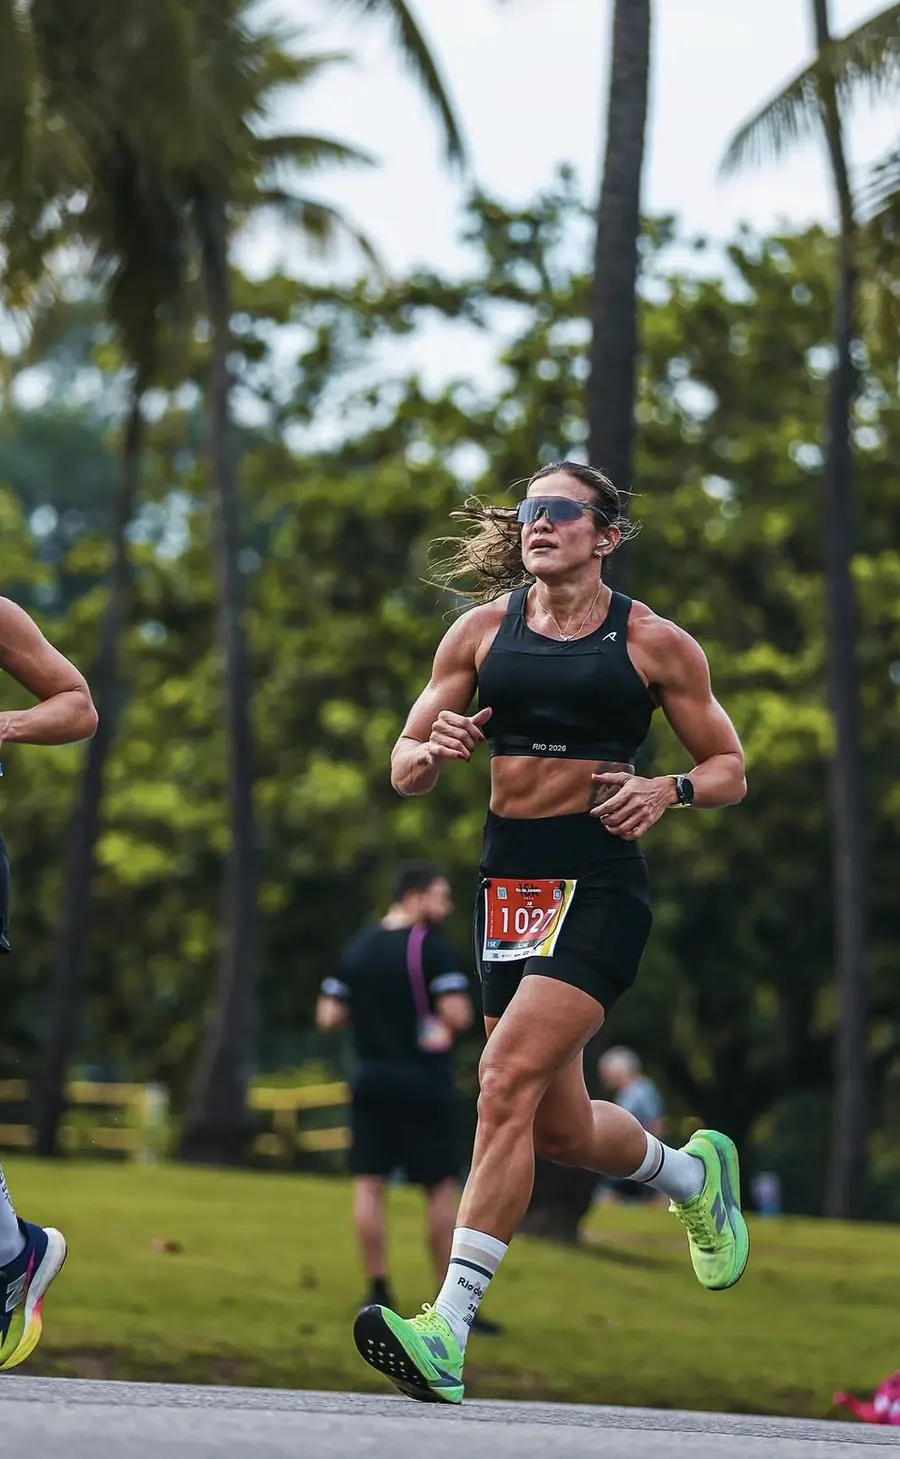
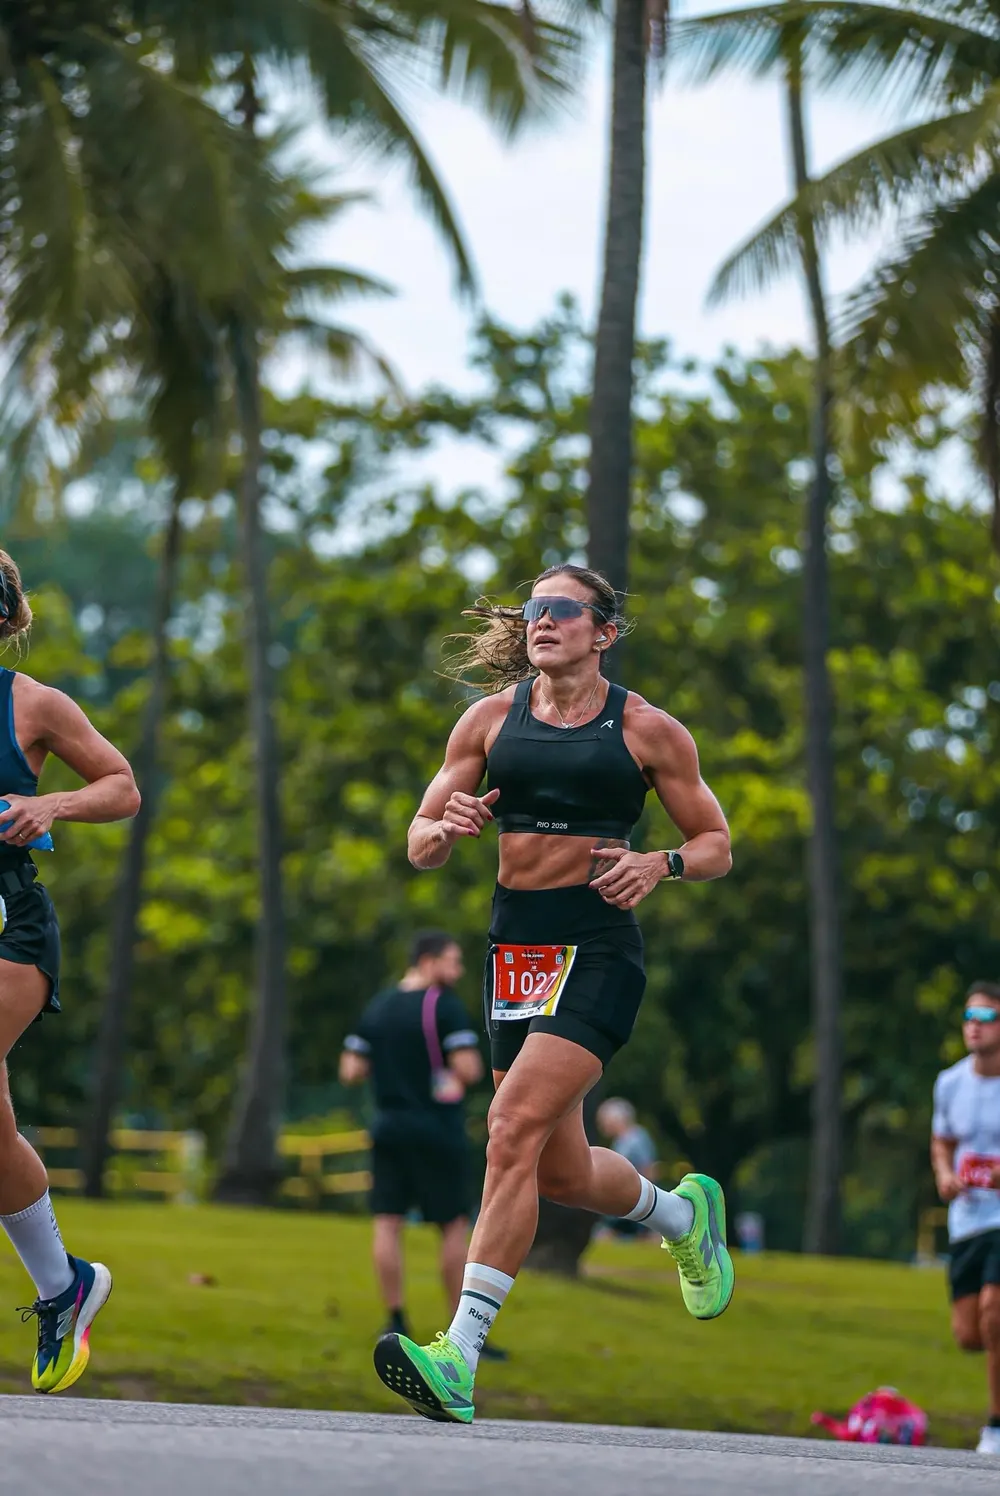
Resultado do Desafio da Ponte, fotos novas em alta qualidade e aviso de preços só na aba Tênis
Claude-Session: https://claude.ai/code/session_01WKUqZBMu9szte5bUcUWzQ6

diff --git a/index.html b/index.html
@@ -315,17 +315,17 @@ section h2{font:800 22px/1 var(--display);margin:8px 0 10px}
 .photo-card>picture img{object-fit:cover}
 .photo-card::after{content:"";position:absolute;inset:0;z-index:-1;background:linear-gradient(180deg,rgba(29,18,32,.05) 20%,rgba(29,18,32,.55) 55%,rgba(29,18,32,.9) 100%)}
 .cta.photo-card{min-height:340px;justify-content:flex-end;padding:24px 18px}
-.cta.photo-card>picture img{object-position:50% 18%}
+.cta.photo-card>picture img{object-position:50% 22%}
 .cta.photo-card p{color:#fff;max-width:34ch}
 .cta.photo-card .follow{background:#fff;color:#1D1220}
 .tr-soon.photo-card{min-height:600px;justify-content:flex-end}
 .tr-soon.photo-card::after{background:linear-gradient(180deg,rgba(29,18,32,0) 25%,rgba(29,18,32,.7) 55%,rgba(29,18,32,.94) 100%)}
-.tr-soon.photo-card>picture img{object-position:50% 10%}
+.tr-soon.photo-card>picture img{object-position:50% 18%}
 .tr-soon.photo-card .tr-p{color:#fff;opacity:.92}
 .tr-soon.photo-card .tr-h{color:#fff}
 .tr-soon.photo-card .tr-badge{background:#fff;color:#1D1220}
 .tr-soon.photo-card .follow{background:#fff;color:#1D1220}
-@media (min-width:700px){.cta.photo-card{min-height:420px}.cta.photo-card>picture img{object-position:50% 6%}}
+@media (min-width:700px){.cta.photo-card{min-height:420px}.cta.photo-card>picture img{object-position:50% 20%}}
 
 /* Resultados da Aline */
 .ar{background:var(--surface);border:1px solid var(--line);border-radius:22px;overflow:hidden;display:flex;flex-direction:column}
@@ -454,7 +454,7 @@ section h2{font:800 22px/1 var(--display);margin:8px 0 10px}
 
   <div class="panel" id="p-treino" role="tabpanel" aria-labelledby="tab-treino" hidden>
     <section class="tr-soon photo-card" id="tr-soon" hidden>
-      <picture><source srcset="fotos/aline-treino.webp" type="image/webp"><img src="fotos/aline-treino.jpg" alt="Aline treinando com kettlebell na Barra da Tijuca" loading="lazy"></picture>
+      <picture><source srcset="fotos/aline-orla.webp" type="image/webp"><img src="fotos/aline-orla.jpg" alt="Aline correndo na orla" loading="lazy"></picture>
       <span class="tr-badge">Em breve</span>
       <h2 class="tr-h">Novidades chegando</h2>
       <p class="tr-p">Estamos trabalhando para trazer muitas novidades sobre treinamentos de corrida com a Aline.</p>
@@ -482,12 +482,12 @@ section h2{font:800 22px/1 var(--display);margin:8px 0 10px}
   </div>
 
   <div class="cta photo-card" id="cta-follow">
-    <picture><source srcset="fotos/aline-prova.webp" type="image/webp"><img src="fotos/aline-prova.jpg" alt="Aline sorrindo durante uma prova de 15 km no Rio" loading="lazy"></picture>
+    <picture><source srcset="fotos/aline-asics.webp" type="image/webp"><img src="fotos/aline-asics.jpg" alt="Aline sorrindo e fazendo sinal de vitória na Asics Golden Run Rio" loading="lazy"></picture>
     <p>Gostou do radar? Siga a Aline para dicas de treino e as melhores ofertas de corrida.</p>
     <a class="follow" id="follow2" target="_blank" rel="noopener"><svg viewBox="0 0 24 24" fill="none" stroke="currentColor" stroke-width="2" aria-hidden="true"><rect x="3" y="3" width="18" height="18" rx="5"/><circle cx="12" cy="12" r="4"/><circle cx="17.5" cy="6.5" r="1" fill="currentColor"/></svg> <span id="follow2-label">Seguir no Instagram</span></a>
   </div>
 
-  <p class="note" style="text-align:center;margin:0 auto">Preços e estoque mudam ao longo do dia: confira o valor final e a sua numeração na loja antes de comprar.</p>
+  <p class="note" id="nota-precos" style="text-align:center;margin:0 auto">Preços e estoque mudam ao longo do dia: confira o valor final e a sua numeração na loja antes de comprar.</p>
 </div>
 
 <div class="modal" id="share" hidden role="dialog" aria-modal="true" aria-labelledby="sh-t">
@@ -3686,6 +3686,7 @@ section h2{font:800 22px/1 var(--display);margin:8px 0 10px}
       document.getElementById('p-'+t).hidden = t!==name;
     });
     const cf = document.getElementById('cta-follow'); if(cf) cf.hidden = !!(data.treino_em_breve && name==='treino');
+    const np = document.getElementById('nota-precos'); if(np) np.hidden = name!=='tenis';
     try{ localStorage.setItem('radar-aba2', name); }catch(e){}
   }
   tabs.forEach(t => document.getElementById('tab-'+t).addEventListener('click', () => show(t)));
@@ -4008,6 +4009,7 @@ section h2{font:800 22px/1 var(--display);margin:8px 0 10px}
   const RESULTADOS = [
     {prova:'New Balance 15K Rio', data:'2026-10-11', dist:'15 km', tempo:'1:12:48', pace:'4:51', geral:'371º de 4.365', fem:'43ª de 1.912', cat:5, catTot:286, catNome:'F40-44'},
     {prova:'Corrida Pacheco', data:'2026-09-27', dist:'10 km', tempo:'49:50', pace:'4:59', geral:'33º', fem:'8ª', cat:2, catNome:'categoria'},
+    {prova:'Desafio da Ponte Rio-Niterói', data:'2026-08-02', dist:'21 km', tempo:'1:52:09', pace:'5:20'},
     {prova:'Asics Golden Run Rio', data:'2026-07-12', dist:'21 km', tempo:'1:54:41', pace:'5:26', geral:'1.201º de 3.544', fem:'260ª de 1.263', cat:46, catTot:205, catNome:'F40-44'}
   ];
   (function(){
@@ -4035,8 +4037,10 @@ section h2{font:800 22px/1 var(--display);margin:8px 0 10px}
       el.querySelector('.tm').textContent = r.tempo;
       el.querySelector('.dist').textContent = r.dist + ' · ' + r.pace + '/km';
       const nums = el.querySelector('.nums');
-      [['Geral', r.geral], ['Feminino', r.fem], ['Categoria', r.cat + 'ª' + (r.catTot ? ' de ' + r.catTot : '')]].forEach(([k,v]) => { const s = document.createElement('span'); s.textContent = k + ' '; const b = document.createElement('b'); b.textContent = v; s.appendChild(b); nums.appendChild(s); });
-      if(r.cat <= 3 || r.cat <= 5){ const bd = document.createElement('span'); bd.className = 'ar-badge'; bd.textContent = r.cat <= 3 ? r.cat + 'º lugar na categoria' : 'Top 5 na categoria'; el.insertBefore(bd, el.firstChild); }
+      [['Geral', r.geral], ['Feminino', r.fem], ['Categoria', r.cat ? r.cat + 'ª' + (r.catTot ? ' de ' + r.catTot : '') : null]].filter(x=>x[1]).forEach(([k,v]) => { const s = document.createElement('span'); s.textContent = k + ' '; const b = document.createElement('b'); b.textContent = v; s.appendChild(b); nums.appendChild(s); });
+      const nDist = RESULTADOS.filter(x=>x.dist===r.dist).length;
+      if(nDist > 1 && best[r.dist] === r){ const bd = document.createElement('span'); bd.className = 'ar-badge'; bd.textContent = 'Melhor tempo nos ' + r.dist.replace(' km','K'); el.insertBefore(bd, el.firstChild); }
+      else if(r.cat && r.cat <= 5){ const bd = document.createElement('span'); bd.className = 'ar-badge'; bd.textContent = r.cat <= 3 ? r.cat + 'º lugar na categoria' : 'Top 5 na categoria'; el.insertBefore(bd, el.firstChild); }
       list.appendChild(el);
     });
   })();

diff --git a/src/template.html b/src/template.html
@@ -264,17 +264,17 @@ section h2{font:800 22px/1 var(--display);margin:8px 0 10px}
 .photo-card>picture img{object-fit:cover}
 .photo-card::after{content:"";position:absolute;inset:0;z-index:-1;background:linear-gradient(180deg,rgba(29,18,32,.05) 20%,rgba(29,18,32,.55) 55%,rgba(29,18,32,.9) 100%)}
 .cta.photo-card{min-height:340px;justify-content:flex-end;padding:24px 18px}
-.cta.photo-card>picture img{object-position:50% 18%}
+.cta.photo-card>picture img{object-position:50% 22%}
 .cta.photo-card p{color:#fff;max-width:34ch}
 .cta.photo-card .follow{background:#fff;color:#1D1220}
 .tr-soon.photo-card{min-height:600px;justify-content:flex-end}
 .tr-soon.photo-card::after{background:linear-gradient(180deg,rgba(29,18,32,0) 25%,rgba(29,18,32,.7) 55%,rgba(29,18,32,.94) 100%)}
-.tr-soon.photo-card>picture img{object-position:50% 10%}
+.tr-soon.photo-card>picture img{object-position:50% 18%}
 .tr-soon.photo-card .tr-p{color:#fff;opacity:.92}
 .tr-soon.photo-card .tr-h{color:#fff}
 .tr-soon.photo-card .tr-badge{background:#fff;color:#1D1220}
 .tr-soon.photo-card .follow{background:#fff;color:#1D1220}
-@media (min-width:700px){.cta.photo-card{min-height:420px}.cta.photo-card>picture img{object-position:50% 6%}}
+@media (min-width:700px){.cta.photo-card{min-height:420px}.cta.photo-card>picture img{object-position:50% 20%}}
 
 /* Resultados da Aline */
 .ar{background:var(--surface);border:1px solid var(--line);border-radius:22px;overflow:hidden;display:flex;flex-direction:column}
@@ -403,7 +403,7 @@ section h2{font:800 22px/1 var(--display);margin:8px 0 10px}
 
   <div class="panel" id="p-treino" role="tabpanel" aria-labelledby="tab-treino" hidden>
     <section class="tr-soon photo-card" id="tr-soon" hidden>
-      <picture><source srcset="fotos/aline-treino.webp" type="image/webp"><img src="fotos/aline-treino.jpg" alt="Aline treinando com kettlebell na Barra da Tijuca" loading="lazy"></picture>
+      <picture><source srcset="fotos/aline-orla.webp" type="image/webp"><img src="fotos/aline-orla.jpg" alt="Aline correndo na orla" loading="lazy"></picture>
       <span class="tr-badge">Em breve</span>
       <h2 class="tr-h">Novidades chegando</h2>
       <p class="tr-p">Estamos trabalhando para trazer muitas novidades sobre treinamentos de corrida com a Aline.</p>
@@ -431,12 +431,12 @@ section h2{font:800 22px/1 var(--display);margin:8px 0 10px}
   </div>
 
   <div class="cta photo-card" id="cta-follow">
-    <picture><source srcset="fotos/aline-prova.webp" type="image/webp"><img src="fotos/aline-prova.jpg" alt="Aline sorrindo durante uma prova de 15 km no Rio" loading="lazy"></picture>
+    <picture><source srcset="fotos/aline-asics.webp" type="image/webp"><img src="fotos/aline-asics.jpg" alt="Aline sorrindo e fazendo sinal de vitória na Asics Golden Run Rio" loading="lazy"></picture>
     <p>Gostou do radar? Siga a Aline para dicas de treino e as melhores ofertas de corrida.</p>
     <a class="follow" id="follow2" target="_blank" rel="noopener"><svg viewBox="0 0 24 24" fill="none" stroke="currentColor" stroke-width="2" aria-hidden="true"><rect x="3" y="3" width="18" height="18" rx="5"/><circle cx="12" cy="12" r="4"/><circle cx="17.5" cy="6.5" r="1" fill="currentColor"/></svg> <span id="follow2-label">Seguir no Instagram</span></a>
   </div>
 
-  <p class="note" style="text-align:center;margin:0 auto">Preços e estoque mudam ao longo do dia: confira o valor final e a sua numeração na loja antes de comprar.</p>
+  <p class="note" id="nota-precos" style="text-align:center;margin:0 auto">Preços e estoque mudam ao longo do dia: confira o valor final e a sua numeração na loja antes de comprar.</p>
 </div>
 
 <div class="modal" id="share" hidden role="dialog" aria-modal="true" aria-labelledby="sh-t">
@@ -510,6 +510,7 @@ __DATA__
       document.getElementById('p-'+t).hidden = t!==name;
     });
     const cf = document.getElementById('cta-follow'); if(cf) cf.hidden = !!(data.treino_em_breve && name==='treino');
+    const np = document.getElementById('nota-precos'); if(np) np.hidden = name!=='tenis';
     try{ localStorage.setItem('radar-aba2', name); }catch(e){}
   }
   tabs.forEach(t => document.getElementById('tab-'+t).addEventListener('click', () => show(t)));
@@ -832,6 +833,7 @@ __DATA__
   const RESULTADOS = [
     {prova:'New Balance 15K Rio', data:'2026-10-11', dist:'15 km', tempo:'1:12:48', pace:'4:51', geral:'371º de 4.365', fem:'43ª de 1.912', cat:5, catTot:286, catNome:'F40-44'},
     {prova:'Corrida Pacheco', data:'2026-09-27', dist:'10 km', tempo:'49:50', pace:'4:59', geral:'33º', fem:'8ª', cat:2, catNome:'categoria'},
+    {prova:'Desafio da Ponte Rio-Niterói', data:'2026-08-02', dist:'21 km', tempo:'1:52:09', pace:'5:20'},
     {prova:'Asics Golden Run Rio', data:'2026-07-12', dist:'21 km', tempo:'1:54:41', pace:'5:26', geral:'1.201º de 3.544', fem:'260ª de 1.263', cat:46, catTot:205, catNome:'F40-44'}
   ];
   (function(){
@@ -859,8 +861,10 @@ __DATA__
       el.querySelector('.tm').textContent = r.tempo;
       el.querySelector('.dist').textContent = r.dist + ' · ' + r.pace + '/km';
       const nums = el.querySelector('.nums');
-      [['Geral', r.geral], ['Feminino', r.fem], ['Categoria', r.cat + 'ª' + (r.catTot ? ' de ' + r.catTot : '')]].forEach(([k,v]) => { const s = document.createElement('span'); s.textContent = k + ' '; const b = document.createElement('b'); b.textContent = v; s.appendChild(b); nums.appendChild(s); });
-      if(r.cat <= 3 || r.cat <= 5){ const bd = document.createElement('span'); bd.className = 'ar-badge'; bd.textContent = r.cat <= 3 ? r.cat + 'º lugar na categoria' : 'Top 5 na categoria'; el.insertBefore(bd, el.firstChild); }
+      [['Geral', r.geral], ['Feminino', r.fem], ['Categoria', r.cat ? r.cat + 'ª' + (r.catTot ? ' de ' + r.catTot : '') : null]].filter(x=>x[1]).forEach(([k,v]) => { const s = document.createElement('span'); s.textContent = k + ' '; const b = document.createElement('b'); b.textContent = v; s.appendChild(b); nums.appendChild(s); });
+      const nDist = RESULTADOS.filter(x=>x.dist===r.dist).length;
+      if(nDist > 1 && best[r.dist] === r){ const bd = document.createElement('span'); bd.className = 'ar-badge'; bd.textContent = 'Melhor tempo nos ' + r.dist.replace(' km','K'); el.insertBefore(bd, el.firstChild); }
+      else if(r.cat && r.cat <= 5){ const bd = document.createElement('span'); bd.className = 'ar-badge'; bd.textContent = r.cat <= 3 ? r.cat + 'º lugar na categoria' : 'Top 5 na categoria'; el.insertBefore(bd, el.firstChild); }
       list.appendChild(el);
     });
   })();
